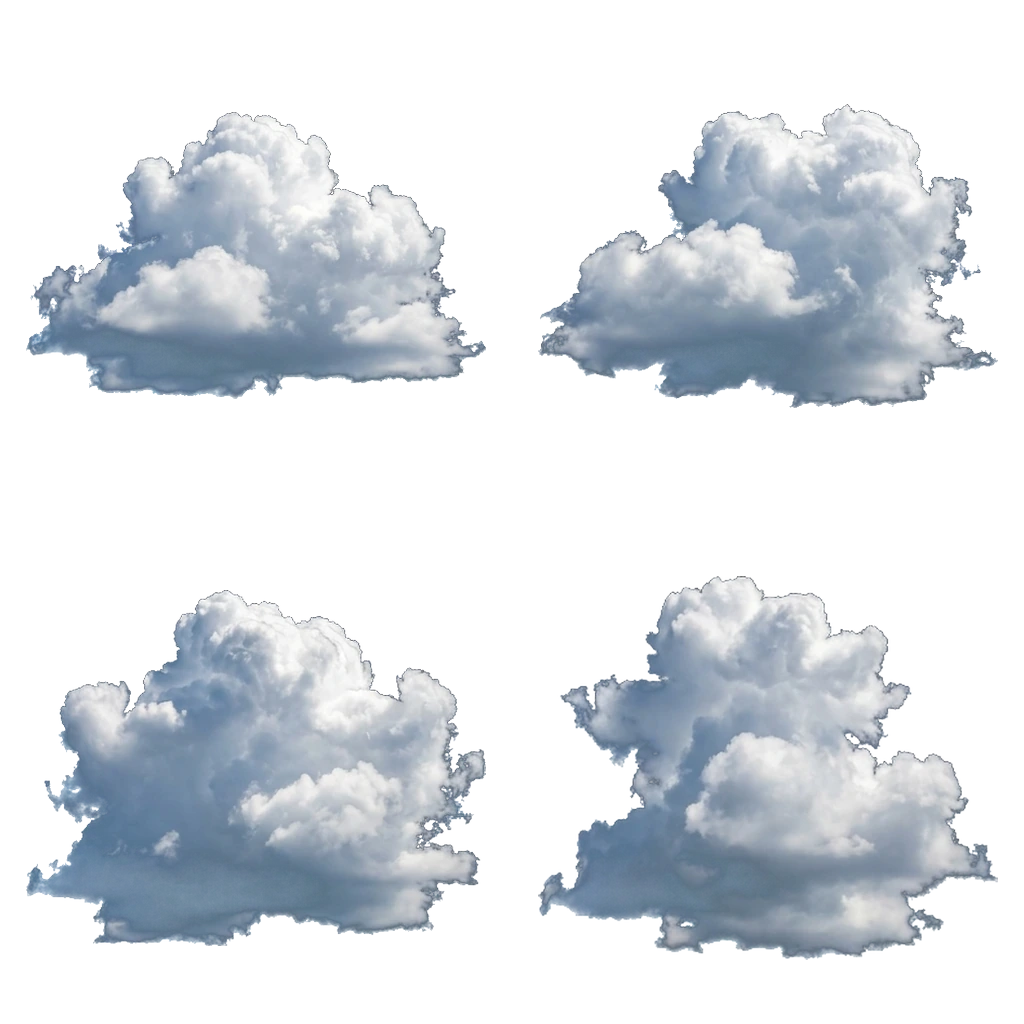
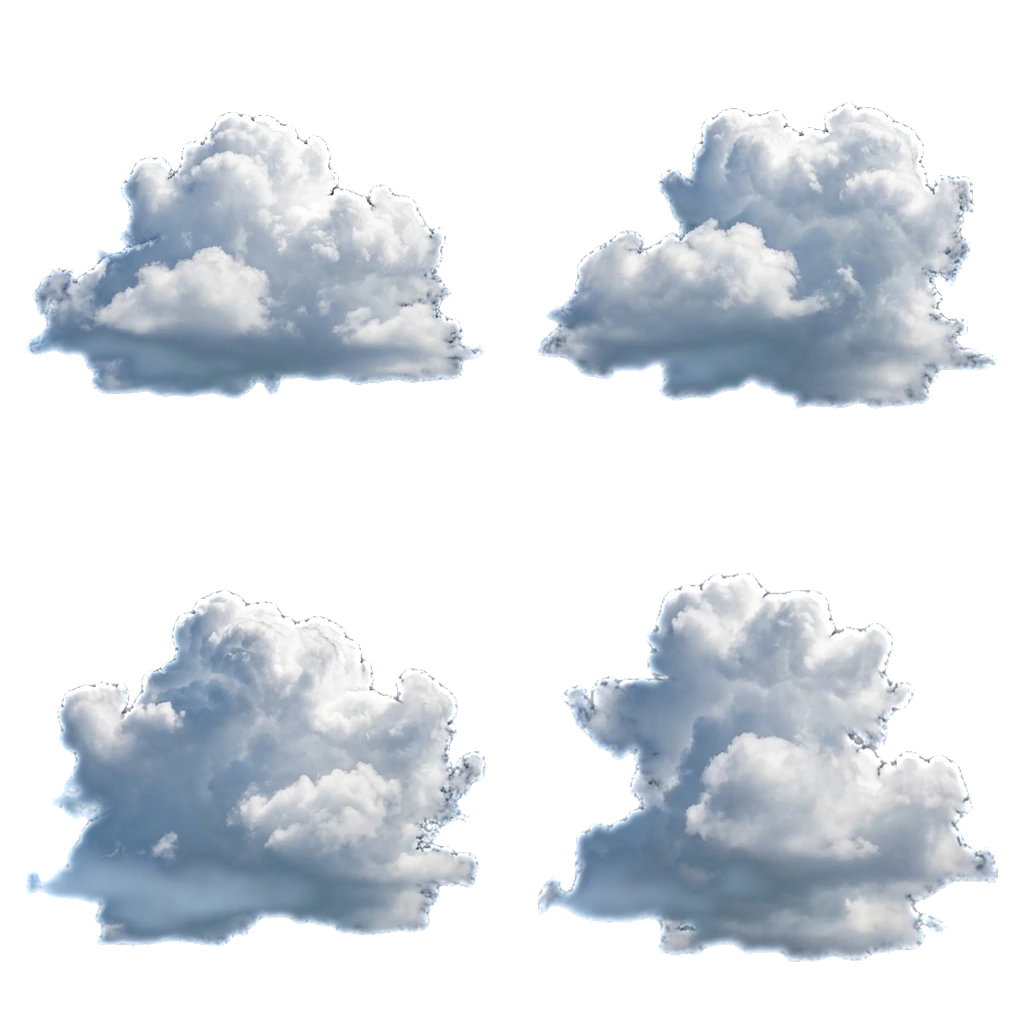
everest: a cloud is a volume, so stop drawing it as one photograph
Judge, asked about the clouds alone: "a crisp, paper-thin photographic
silhouette with no internal depth". That is exactly what one quad per mass is,
and it stays true however good the photograph on it is.

Each mass is now three or four translucent slices offset inside its own body,
about a fifth of its width apart in all three axes, at 0.78 / 0.56 / 0.38
opacity. They separate as the camera moves -- that parallax is what says
"volume" -- and where they overlap they stack into density instead of stacking
one hard outline on another. Their scales and mirroring vary per slice so the
four plates do not show as repetition across several hundred quads.

The keying was also making a halo. A bright subject on pure black is exactly
premultiplied alpha, so the key is arithmetic rather than a guess, but the plate
is a finished photograph and its rim ends where the photographer's frame ended.
The rim is eroded now, feathered, and given a long ramp into nothing, and thin
pixels drift toward the cloud's own colour rather than toward white -- drifting
toward white is what lit the outline up.

Claude-Session: https://claude.ai/code/session_01G7vJoBVK3twegbTR3VouS4

diff --git a/peak_to_particle/everest.html b/peak_to_particle/everest.html
@@ -390,7 +390,7 @@ const PUFF_TEX = [0,1,2,3].map(i => {
 // varied opacity every mass has the same weight and the bank reads as one
 // painted object.
 const PUFF_MAT = [];
-for (const o of [1.0, 0.74, 0.5])
+for (const o of [0.78, 0.56, 0.38])
   for (const t of PUFF_TEX)
     PUFF_MAT.push(new THREE.SpriteMaterial({
       map: t, transparent: true, depthWrite: false, fog: true, opacity: o,
@@ -431,20 +431,36 @@ for (let c = 0; c < CLUSTERS; c++) {
   const members = 3 + Math.floor(rnd() * 4);
   for (let k = 0; k < members; k++) {
     const mi = Math.floor(rnd() * 4) + (k === 0 ? 0 : (rnd() < 0.45 ? 4 : 8));
-    const s = new THREE.Sprite(PUFF_MAT[mi]);
     const w = (far ? 8000 + rnd() * 13000 : 2000 + Math.pow(rnd(), 0.75) * 5200)
               * (k === 0 ? 1.0 : 0.45 + rnd() * 0.6);
     // a towering mass is as tall as it is wide; a fair-weather one is a slab
     const aspect = tower ? 0.62 + rnd() * 0.42 : 0.36 + rnd() * 0.22;
-    s.position.set(cx + (rnd() - 0.5) * spread,
-                   cy + (rnd() - 0.5) * (tower ? 1700 : 700),
-                   cz + (rnd() - 0.5) * spread);
-    // flip half of them: four plates over a hundred sprites shows as repetition,
-    // and a mirrored cumulus is still a cumulus
-    s.scale.set(rnd() < 0.5 ? -w : w, w * aspect, 1);
-    s.renderOrder = 3;
-    s.userData = { baseY: s.position.y, ph: rnd() * 6.283, w };
-    puffs.add(s);
+    const mx = cx + (rnd() - 0.5) * spread;
+    const my = cy + (rnd() - 0.5) * (tower ? 1700 : 700);
+    const mz = cz + (rnd() - 0.5) * spread;
+
+    /* One quad per mass is a photograph of a cloud, and it stays a photograph
+       however good the photograph is -- the judge called it "a crisp, paper-thin
+       silhouette with no internal depth". A cloud is a volume, so each mass is
+       drawn as three or four translucent slices offset inside its own body.
+       They separate as the camera moves, which is the parallax that says
+       "volume", and they stack into density where they overlap. */
+    const slices = 3 + (rnd() < 0.45 ? 1 : 0);
+    for (let q = 0; q < slices; q++) {
+      const sm = PUFF_MAT[(mi + q * 4) % PUFF_MAT.length];
+      const sp = new THREE.Sprite(sm);
+      const j = w * 0.22;
+      sp.position.set(mx + (rnd() - 0.5) * j,
+                      my + (rnd() - 0.5) * j * aspect * 1.1,
+                      mz + (rnd() - 0.5) * j);
+      const sw = w * (0.80 + rnd() * 0.34);
+      // flip half of them: four plates over hundreds of quads shows as
+      // repetition, and a mirrored cumulus is still a cumulus
+      sp.scale.set(rnd() < 0.5 ? -sw : sw, sw * aspect * (0.9 + rnd() * 0.2), 1);
+      sp.renderOrder = 3;
+      sp.userData = { baseY: sp.position.y, ph: rnd() * 6.283, w: sw };
+      puffs.add(sp);
+    }
   }
 }
 scene.add(puffs);

diff --git a/peak_to_particle/terrain/make_cloud_assets.py b/peak_to_particle/terrain/make_cloud_assets.py
@@ -30,12 +30,19 @@ src = np.asarray(Image.open(os.path.join(SRC, "gen_puffs.png")).convert("RGB"),
                  np.float32) / 255.0
 lum = src @ np.array([0.2126, 0.7152, 0.0722], np.float32)
 alpha = np.clip((lum - 0.020) / 0.42, 0, 1)          # small toe kills the fringe
-alpha = np.clip(alpha ** 0.88, 0, 1)
-rgb = src / np.maximum(alpha, 0.10)[..., None]       # unpremultiply
-# where alpha is thin the unpremultiply is noisy and leaves a dark fringe, so
-# fade those pixels toward the cloud's own white instead of toward black
-thin = 1.0 - np.clip(alpha / 0.45, 0, 1)
-rgb = rgb + (np.array([0.93, 0.95, 0.98], np.float32) - rgb) * thin[..., None] * 0.85
+# The judge: "a crisp, paper-thin photographic silhouette ... pale edge halo".
+# A photographic cutout has a hard rim because the plate is a finished picture,
+# not a slab of atmosphere. Erode the rim and give it a long soft ramp, so the
+# outline dissolves rather than ending, and so overlapping copies build density
+# instead of stacking one hard outline on another.
+alpha = np.clip((alpha - 0.16) / 0.84, 0, 1)         # erode
+alpha = ndimage.gaussian_filter(alpha, 3.0)          # feather
+alpha = np.clip(alpha, 0, 1) ** 1.28                 # long ramp into nothing
+rgb = src / np.maximum(alpha, 0.14)[..., None]       # unpremultiply
+# where alpha is thin the unpremultiply is noisy; drift toward the cloud's own
+# colour, not toward white, or the rim lights up as a halo
+thin = 1.0 - np.clip(alpha / 0.55, 0, 1)
+rgb = rgb + (np.array([0.80, 0.845, 0.905], np.float32) - rgb) * thin[..., None] * 0.75
 rgb = np.clip(rgb, 0, 1)
 
 lab, n = ndimage.label(alpha > 0.30)
